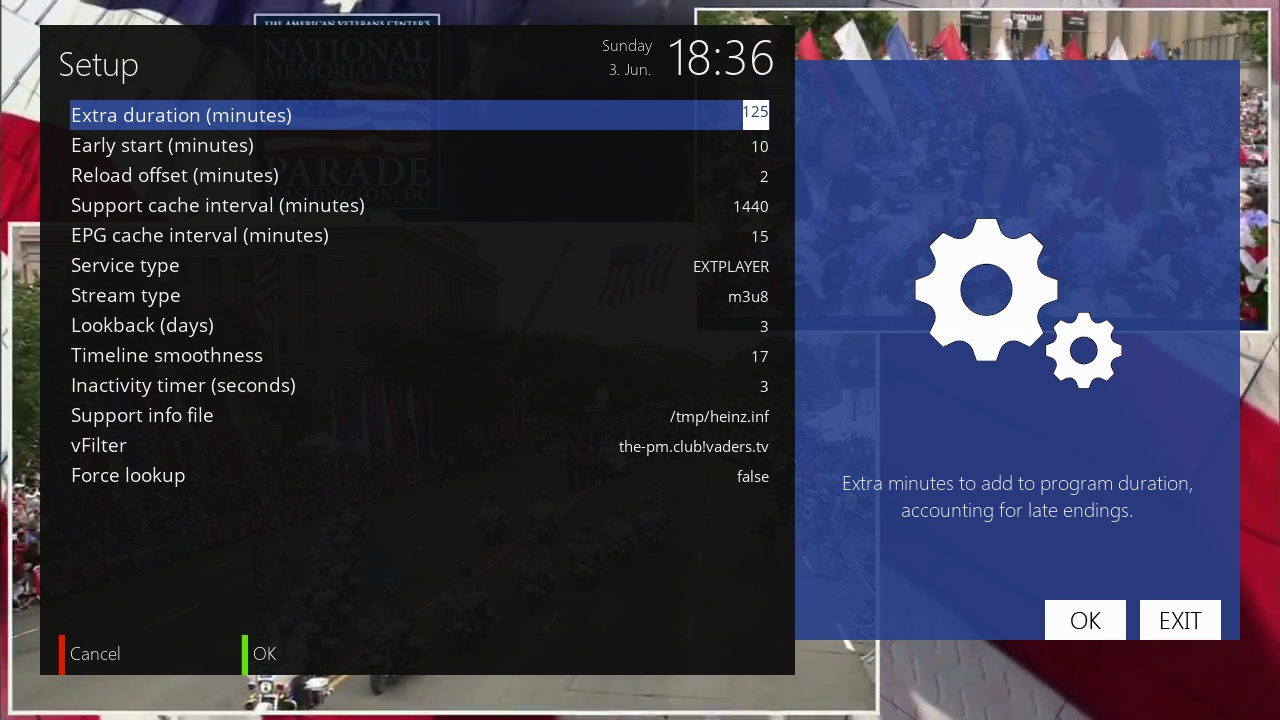
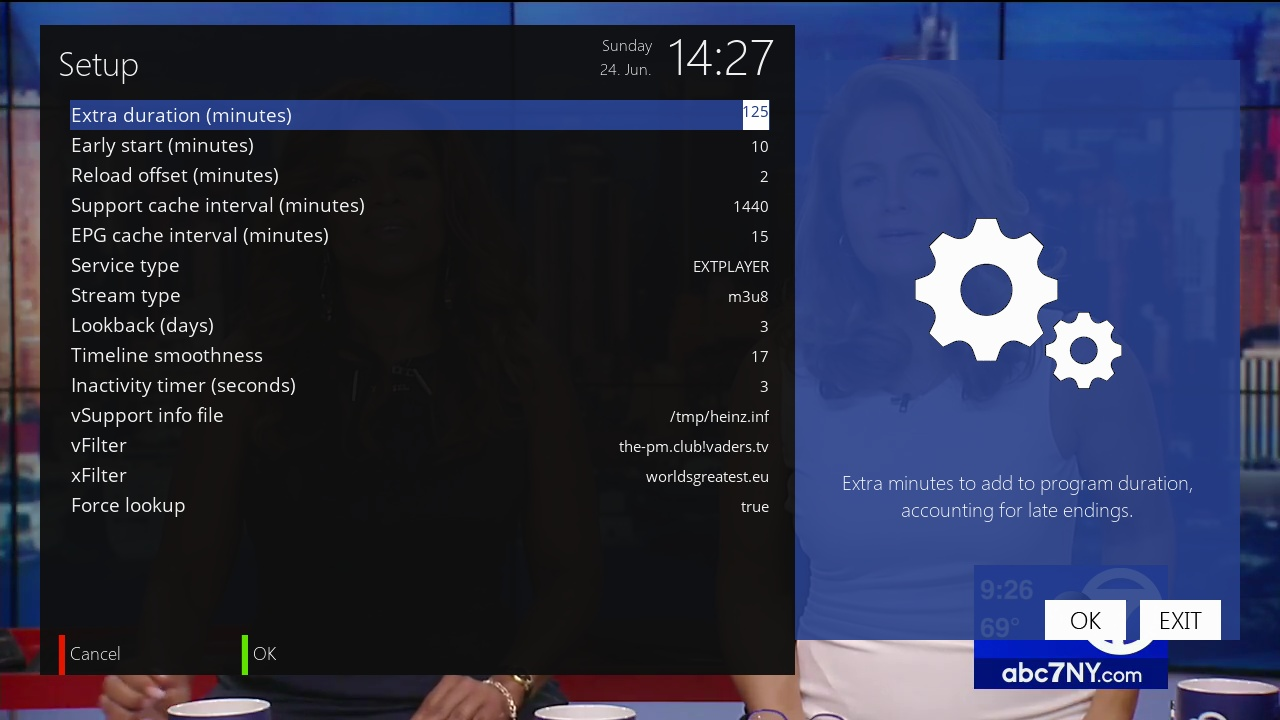
xc api support, provider as parameter to frenchs, take ii

diff --git a/openatv6.0/plugins/README.md b/openatv6.0/plugins/README.md
@@ -1,5 +1,10 @@
-**NOTE: currently these plugins are provider specific (Vaders+resellers); if you have a multi provider configuration, and you activate the plugin on another provider stream, there's a chance you'll be leaking your other providers' credentials to Vaders, namely on the Balancer plugin - for the Heinz plugin, that will depend on the vFilter configuration (the default value is safe).**
+* Heinz is a "ketchup" plugin, supporting both Vaders API as well as Xtream-Codes API.
 
+* Balancer is a server switcher for Vaders (and resellers).
+
+** NOTE: the Balancer plugin can leak your credentials in a multi-provider setup, if not
+invoked from a Vaders' stream. Heinz avoids this by using the vFilter and xFilter settings,
+make sure to use/edit those (separate multiple matches in each filter with "!").
 
 Thanks to the folks in PMC:Enigma (namely @falleen, @BillHicks, @Bill) and DeathStar (namely @agentsmith1, @SomeKewlName).
 

diff --git a/openatv6.0/plugins/heinz/README-frenchs.md b/openatv6.0/plugins/heinz/README-frenchs.md
@@ -15,15 +15,14 @@ with a
 
 suffix on the channel name.
 
-NOTE: if you don't use one or several exclamation marks as the suffix, the
-channel renaming will probably stop the correct channel picons display.
+NOTE: if you don't use exclamation mark(s) as the suffix, the channel
+renaming will break the proper picons display.
 
 
 The script can be run manually, but it's better if ran via cron, as Suls
 generally also runs periodically. A crontab line to run it every 5 minutes is
 as such:
 
-*/5 * * * * /usr/lib/enigma2/python/Plugins/Extensions/Heinz/frenchs.sh
+*/5 * * * * /usr/lib/enigma2/python/Plugins/Extensions/Heinz/frenchs.sh pmc
 
-NOTE: if the script doesn't seem to work, make sure you edit the PROVIDER
-parameter on the script itself (should be in your plugins/Heinz directory).
+NOTE: the provider name is provided as the first argument of the script.

diff --git a/openatv6.0/plugins/heinz/checksums.md b/openatv6.0/plugins/heinz/checksums.md
@@ -1,5 +1,5 @@
-enigma2-plugin-extensions-heinz-6.0.3o.ipk
+enigma2-plugin-extensions-heinz-6.0.4a.ipk
 
-MD5 8fc85b5fec7b765d1498dd9bdde6ed3c
+MD5 32df7ea8e7cf922252fca3784a97337a
 
-SHA 24953f4a23ad0e068748dc90ab3435262b48c87f
+SHA e9b680250d5048b1ac998c72fe2e2eaa369d3443
